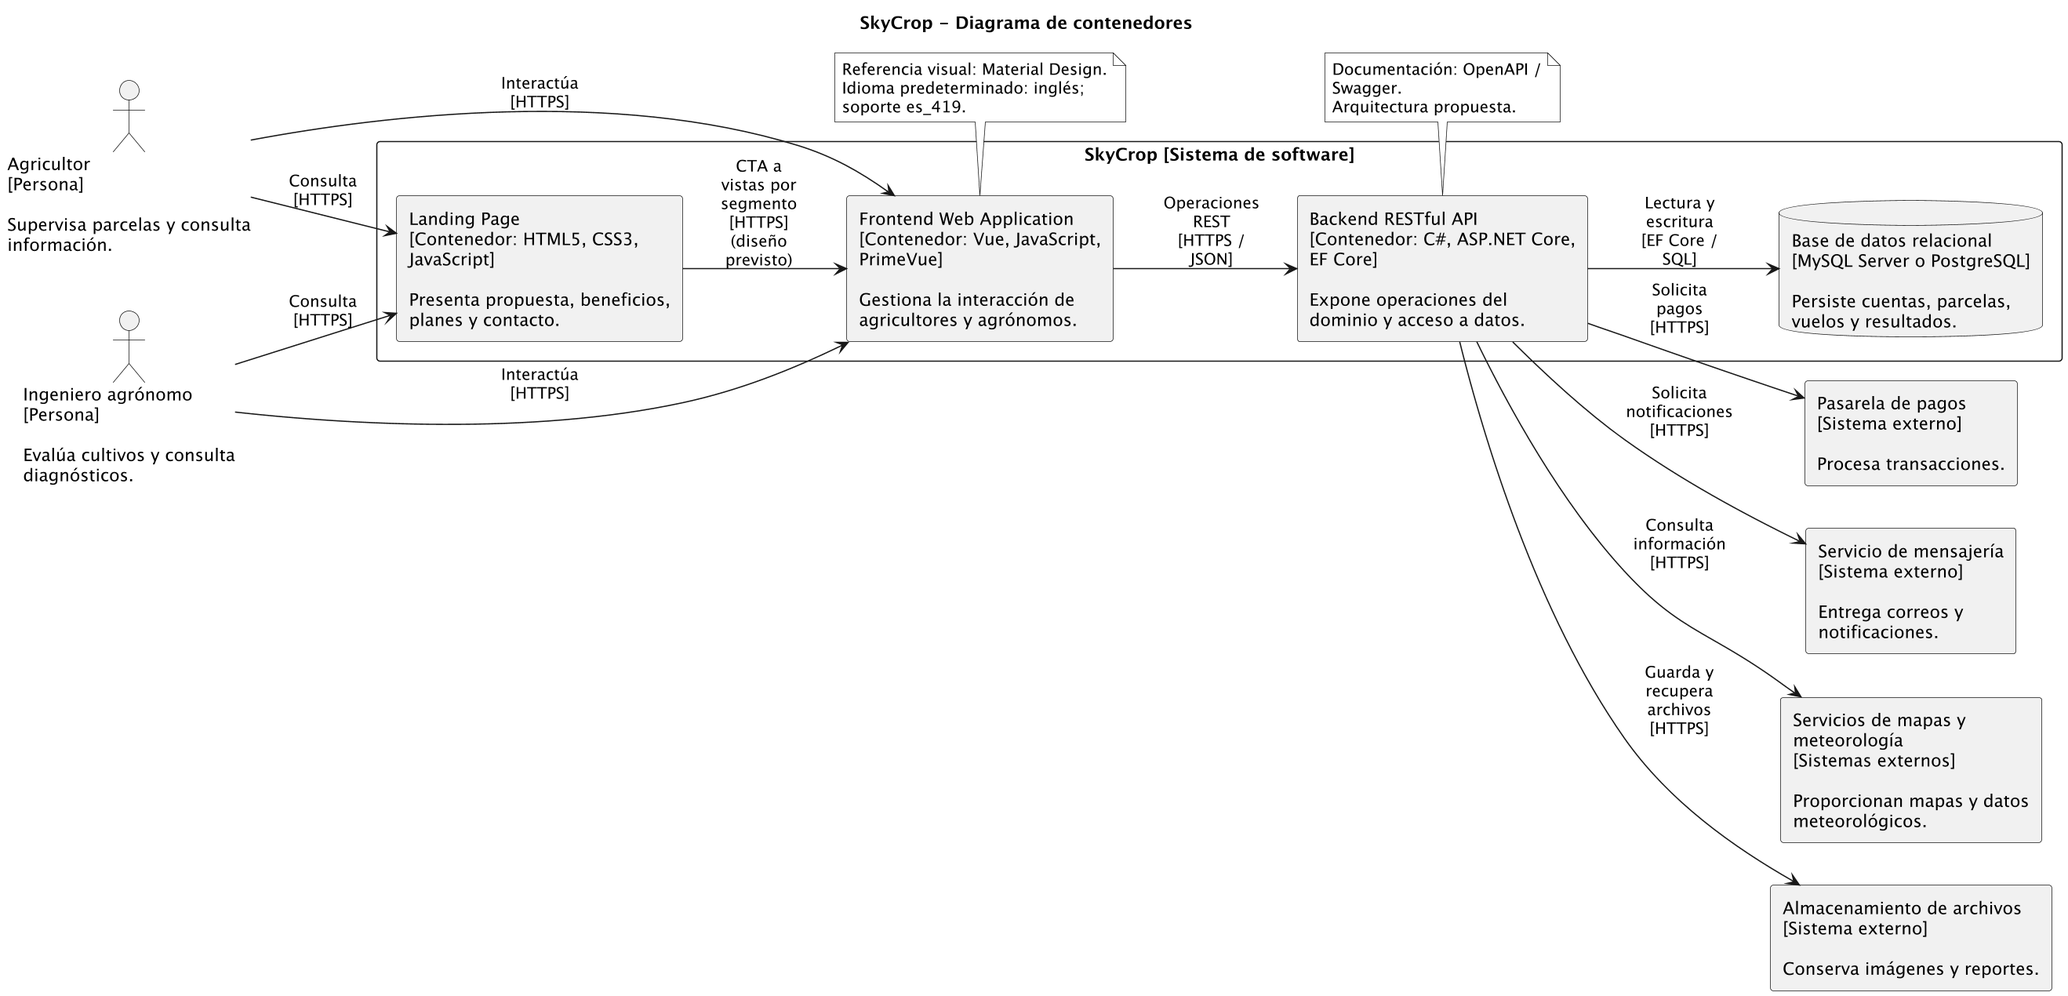
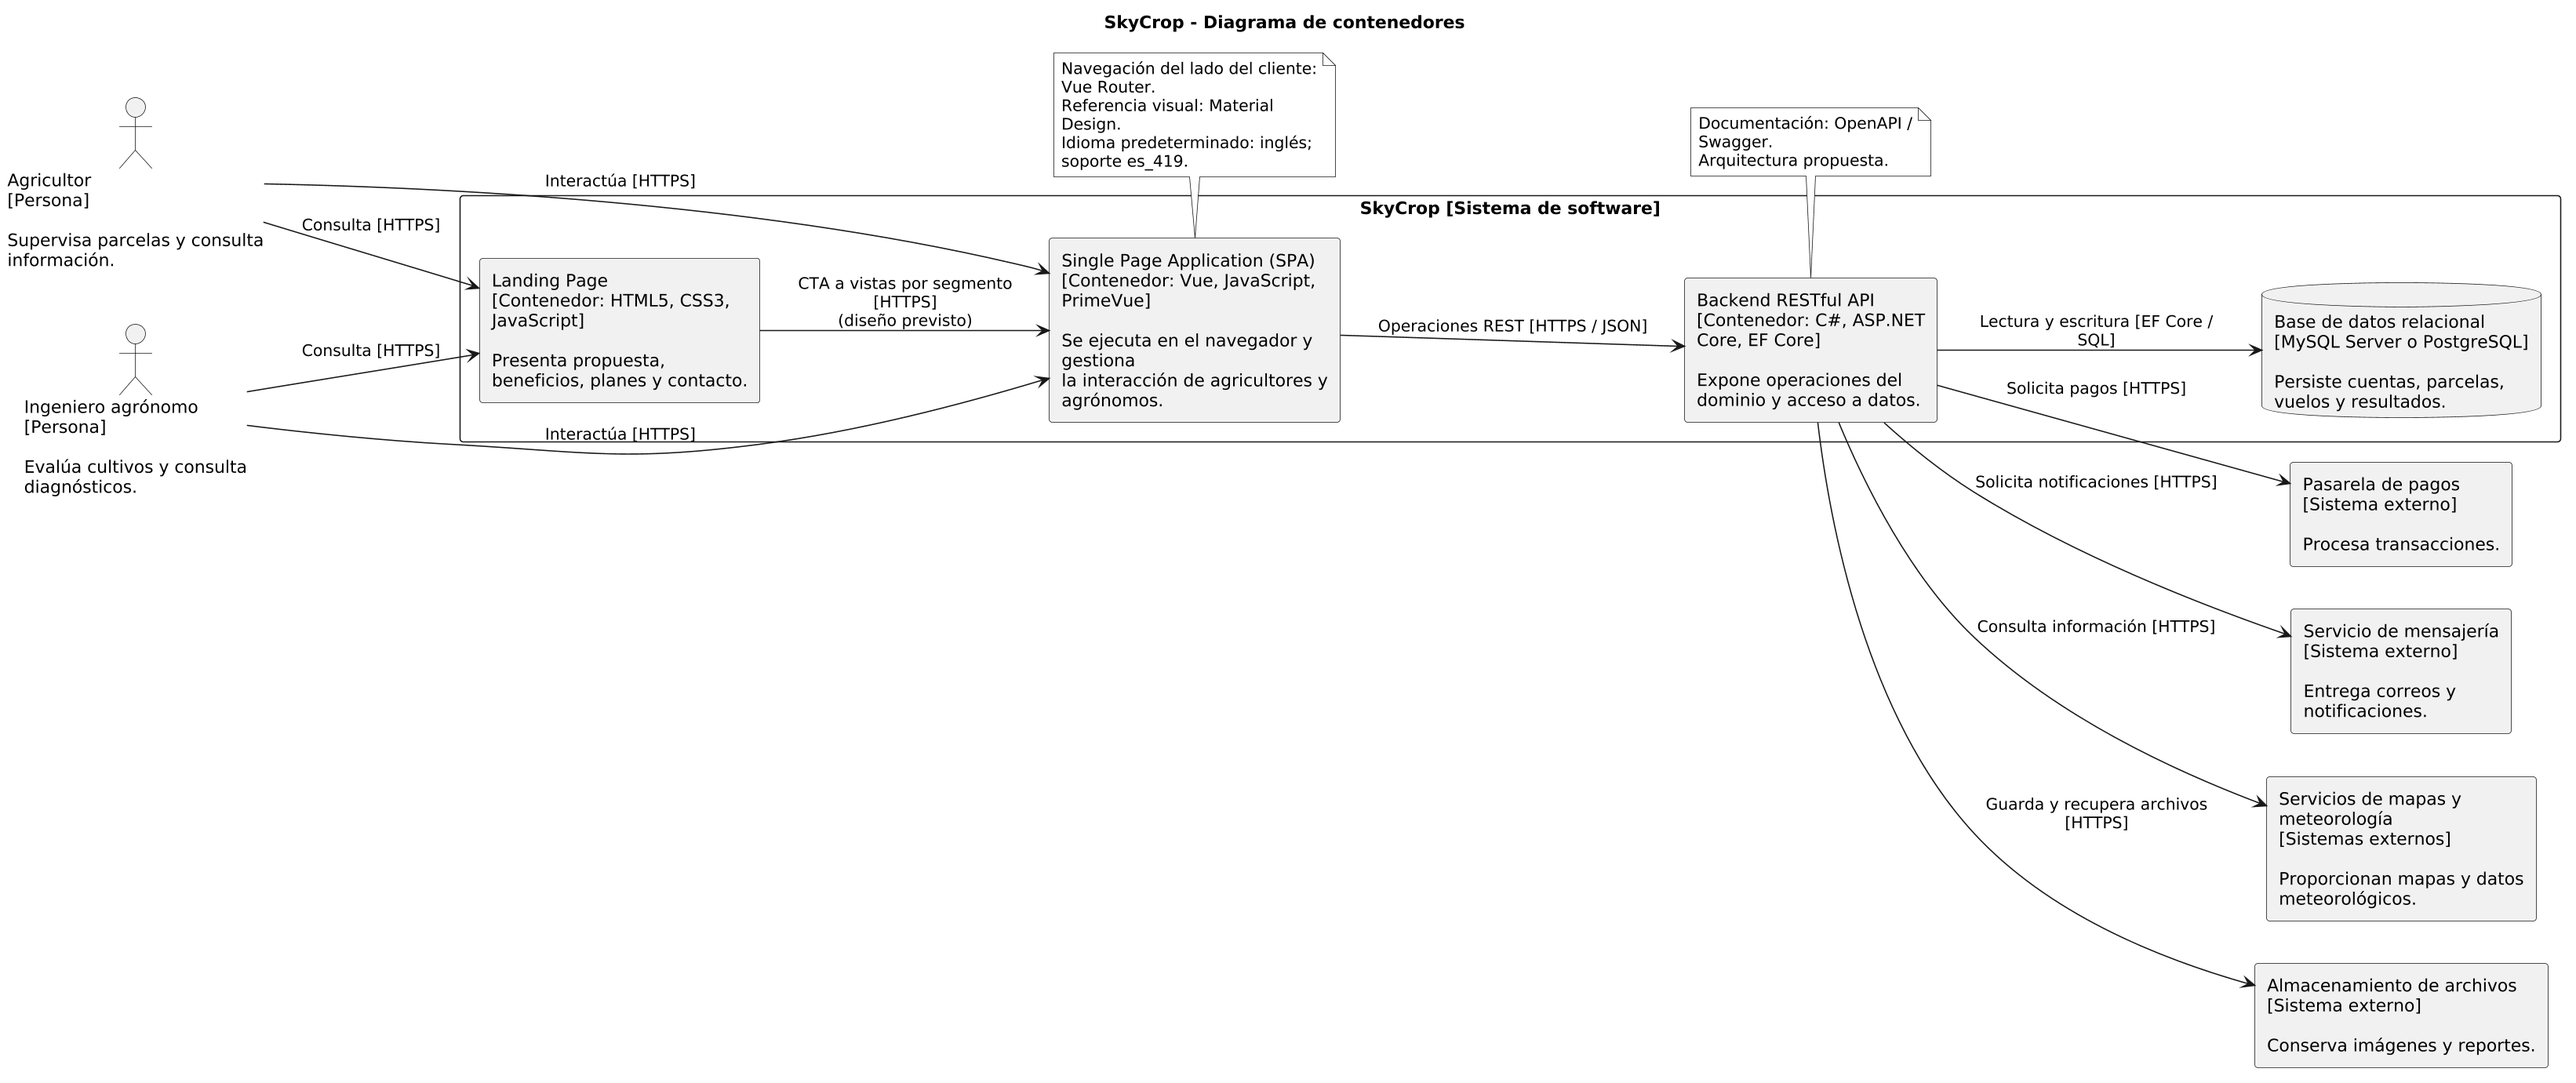
feature: identify SPA in container diagram and architecture description

diff --git a/README.md b/README.md
@@ -2014,7 +2014,7 @@ alt="Context-Diagram">
 
 ### 4.6.3. Software Architecture Container Diagrams.
 
-La arquitectura propuesta de SkyCrop comprende una Landing Page desarrollada con HTML5, CSS3 y JavaScript, una aplicación web basada en Vue y PrimeVue, y un RESTful API con C# y ASP.NET Core. Entity Framework Core proporciona el acceso a la base de datos relacional, para la cual se consideran MySQL Server o PostgreSQL. La landing presenta el producto y contempla llamados a la acción hacia las vistas de la aplicación correspondientes a cada segmento. La aplicación consume el API mediante HTTPS, mientras que el backend concentra las operaciones del dominio y las integraciones externas.
+La arquitectura propuesta de SkyCrop comprende una Landing Page desarrollada con HTML5, CSS3 y JavaScript, una aplicación web de página única (Single Page Application o SPA) basada en Vue y PrimeVue, y un RESTful API con C# y ASP.NET Core. Entity Framework Core proporciona el acceso a la base de datos relacional, para la cual se consideran MySQL Server o PostgreSQL. La landing presenta el producto y contempla llamados a la acción hacia las vistas de la aplicación correspondientes a cada segmento. La SPA se ejecuta en el navegador y utiliza Vue Router para la navegación del lado del cliente. Consume el API mediante solicitudes HTTPS con datos en formato JSON, mientras que el backend concentra las operaciones del dominio y las integraciones externas.
 
 <img src="resources/imgs/Software Architecture Diagram/Container-Diagram-updated.png" alt="Diagrama de contenedores de SkyCrop">
 
